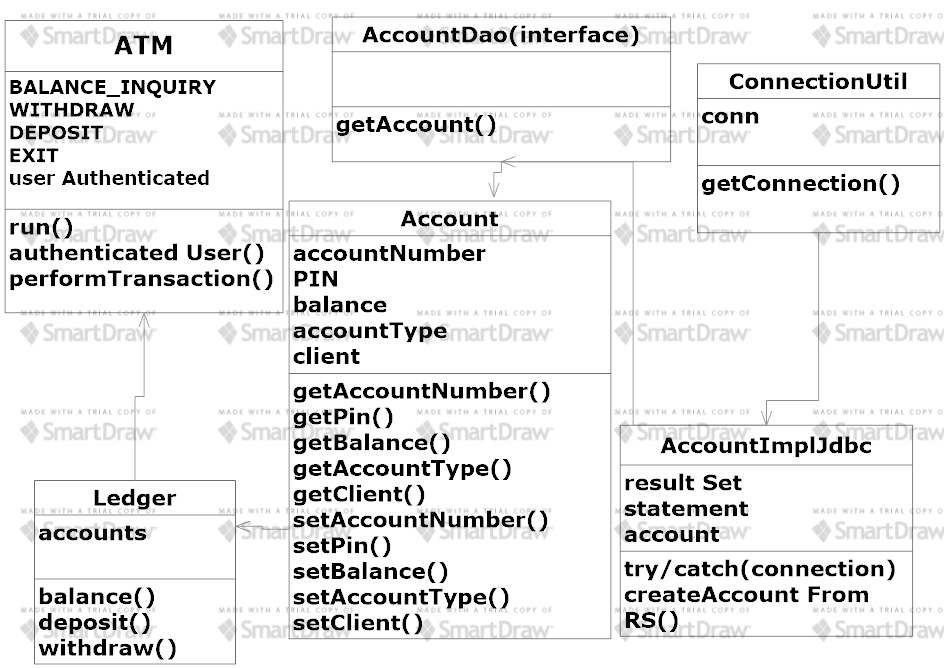
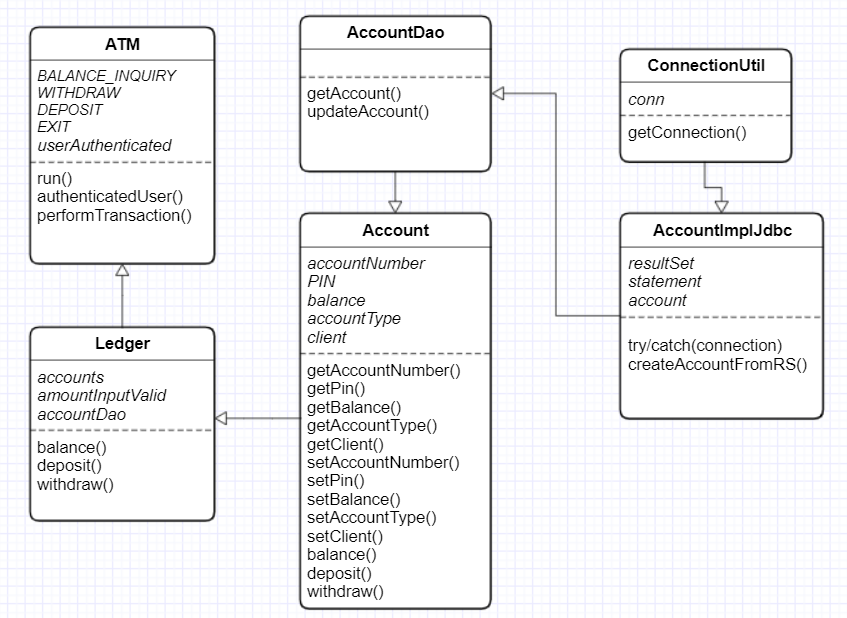
first coomit for project

Changed region(s): [[0.0, 0.0, 1.0, 1.0]]

diff --git a/src/main/java/com/revature/ATMsmartdraw/ATMsmartdraw.htm b/src/main/java/com/revature/ATMsmartdraw/ATMsmartdraw.htm
@@ -1,0 +1,18 @@
+<!DOCTYPE HTML PUBLIC "-//W3C//DTD HTML 4.0 Transitional//EN">
+
+<html>
+<head>
+	<title>C:\Users\hhuyn_\Downloads\ATMsmartdraw.sdr</title>
+</head>
+<body bgcolor="white" marginheight="0" marginwidth="0" topmargin="0" leftmargin="0">
+	<table border=0 align="left" cellspacing="1" cellpadding="1">
+		<tr>
+			<td valign="top" align="left">
+	<IMG SRC="ATMsmartdraw_img.gif" border=0 ALT="ATMsmartdraw_img.gif">
+			</td>
+		</tr>
+	</table>
+
+
+</body>
+</html>
